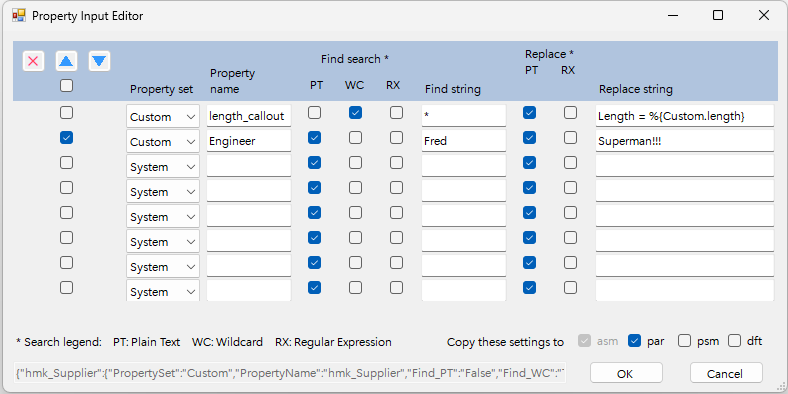
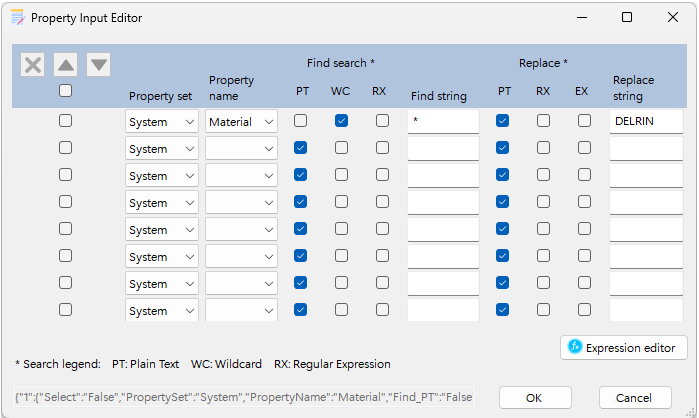
Documentation

diff --git a/README-2024.2.md b/README-2024.2.md
@@ -410,11 +410,12 @@ Searches for text in a specified property and replaces it if found. The property
 
 A `Property set`, either `System` or `Custom`, is required. For more information, see the **Property Filter** section in this README file. 
 
-There are three search modes, `PT`, `WC`, and `RX`. 
+There are three search modes, `PT`, `WC`, `RX`, and `EX`. 
 
 - `PT` stands for 'Plain Text'.  It is simple to use, but finds literal matches only. 
 - `WC` stands for 'Wild Card'.  You use `*`, `?`  `[charlist]`, and `[!charlist]` according to the VB `Like` syntax. 
 - `RX` stands for 'Regex'.  It is a more comprehensive (and notoriously cryptic) method of matching text. Check the [<ins>**.NET Regex Guide**</ins>](https://learn.microsoft.com/en-us/dotnet/standard/base-types/regular-expression-language-quick-reference) for more information.
+- `EX` stands for 'Expression'.  It is discussed below. 
 
 The search *is not* case sensitive, the replacement *is*. For example, say the search is `aluminum`, the replacement is `ALUMINUM`, and the property value is `Aluminum 6061-T6`. Then the new value would be `ALUMINUM 6061-T6`. 
 
@@ -432,7 +433,23 @@ Note the textbox adjacent to the `Edit` button is a `Dictionary` representation 
 
 EXPERIMENTAL: Direct edit using Windows Structured Storage for fast execution. If you want to try that out, select the option `Edit properties outside Solid Edge`. 
 
-Due to some upstream limitations, certain properties in Structured Storage are read-only for now. That means you can use them in formulas in the `Find string` and `Replace string`, but cannot change the properties themselves. The affected properties are `System.Document Number`, `System.Revision`, `System.Project Name`. 
+Due to some upstream limitations, certain properties in Structured Storage are read-only for now. That means you can use them in formulas in the `Find` and `Replace` strings, but cannot change the properties themselves. The affected properties are `System.Document Number`, `System.Revision`, `System.Project Name`. 
+
+There are other items that Solid Edge presents as properties, but are not kept in Structured Storage. As such, they are not accesible using this technique. There are quite a few of these, for example density, fill style, etc. The only two in this category that are currently supported by Housekeeper (but not Structured Storage) are `System.Material` and `System.Sheet Metal Gage`. 
+
+**Expressions**
+
+![Expression Editor](My%20Project/media/expression_editor.png)
+
+With this tool you create an `expression` to use in a `Find` and/or `Replace` string. It functions similar to a formula in Excel. You can do string manipulations, like changing capitalization or rearranging text. You can create logical expressions, do arithmetic, and, well, almost anything.  The avaialable functions are listed below. 
+
+Like Excel, the expression must return a value.  Nested expressions are the norm for complex manipulations. Unlike Excel, multi-line text is allowed, which can make the code more readable. 
+
+You can check your expression using the `Test` button. If there are variables not defined in the formula itself, for example `%{Custom.Engineer}`, it prompts you for a value. You can `Save` or `Save As` your expression with the buttons provided. Retreive them with the `Save Expressions` button.  There are a couple of example saved expressions you can review there. The `Help` button opens a web site where you can learn more. 
+
+Available functions
+
+`concat()`, `contains()`, `convert()`, `count()`, `countBy()`, `dateAdd()`, `dateTime()`, `dateTimeAsEpoch()`, `dateTimeAsEpochMs()`, `dictionary()`,`distinct()`, `endsWith()`, `extend()`, `first()`, `firstOrDefault()`, `format()`, `getProperties()`, `getProperty()`, `humanize()`, `if()`, `in()`, `indexOf()`, `isGuid()`, `isInfinite()`, `isNaN()`, `isNull()`, `isNullOrEmpty()`, `isNullOrWhiteSpace()`, `isSet()`, `itemAtIndex()`, `jObject()`, `join()`, `jPath()`, `last()`, `lastIndexOf()`, `lastOrDefault()`, `length()`, `list()`, `listOf()`, `max()`, `maxValue()`, `min()`, `minValue()`, `nullCoalesce()`, `orderBy()`, `padLeft()`, `parse()`, `parseInt()`, `regexGroup()`, `regexIsMatch()`, `replace()`, `retrieve`, `reverse()`, `sanitize()`, `select()`, `selectDistinct()`, `setProperties()`, `skip()`, `Sort()`, `Split()`, `startsWith()`, `store()`, `substring()`, `sum()`, `switch()`, `take()`, `throw()`, `timeSpan()`, `toDateTime()`, `toLower()`, `toString()`, `toUpper()`, `try()`, `tryParse()`, `typeOf()`, `where()`
 
 ### Edit variables
 Adds, changes, and/or exposes variables.  The information is entered on the Input Editor. Access the form using the `Variables edit/add/expose` `Edit` button. It is located below the task list on each **Task Tab**.

diff --git a/README.md b/README.md
@@ -410,11 +410,12 @@ Searches for text in a specified property and replaces it if found. The property
 
 A `Property set`, either `System` or `Custom`, is required. For more information, see the **Property Filter** section in this README file. 
 
-There are three search modes, `PT`, `WC`, and `RX`. 
+There are three search modes, `PT`, `WC`, `RX`, and `EX`. 
 
 - `PT` stands for 'Plain Text'.  It is simple to use, but finds literal matches only. 
 - `WC` stands for 'Wild Card'.  You use `*`, `?`  `[charlist]`, and `[!charlist]` according to the VB `Like` syntax. 
 - `RX` stands for 'Regex'.  It is a more comprehensive (and notoriously cryptic) method of matching text. Check the [<ins>**.NET Regex Guide**</ins>](https://learn.microsoft.com/en-us/dotnet/standard/base-types/regular-expression-language-quick-reference) for more information.
+- `EX` stands for 'Expression'.  It is discussed below. 
 
 The search *is not* case sensitive, the replacement *is*. For example, say the search is `aluminum`, the replacement is `ALUMINUM`, and the property value is `Aluminum 6061-T6`. Then the new value would be `ALUMINUM 6061-T6`. 
 
@@ -432,7 +433,23 @@ Note the textbox adjacent to the `Edit` button is a `Dictionary` representation 
 
 EXPERIMENTAL: Direct edit using Windows Structured Storage for fast execution. If you want to try that out, select the option `Edit properties outside Solid Edge`. 
 
-Due to some upstream limitations, certain properties in Structured Storage are read-only for now. That means you can use them in formulas in the `Find string` and `Replace string`, but cannot change the properties themselves. The affected properties are `System.Document Number`, `System.Revision`, `System.Project Name`. 
+Due to some upstream limitations, certain properties in Structured Storage are read-only for now. That means you can use them in formulas in the `Find` and `Replace` strings, but cannot change the properties themselves. The affected properties are `System.Document Number`, `System.Revision`, `System.Project Name`. 
+
+There are other items that Solid Edge presents as properties, but are not kept in Structured Storage. As such, they are not accesible using this technique. There are quite a few of these, for example density, fill style, etc. The only two in this category that are currently supported by Housekeeper (but not Structured Storage) are `System.Material` and `System.Sheet Metal Gage`. 
+
+**Expressions**
+
+![Expression Editor](My%20Project/media/expression_editor.png)
+
+With this tool you create an `expression` to use in a `Find` and/or `Replace` string. It functions similar to a formula in Excel. You can do string manipulations, like changing capitalization or rearranging text. You can create logical expressions, do arithmetic, and, well, almost anything.  The avaialable functions are listed below. 
+
+Like Excel, the expression must return a value.  Nested expressions are the norm for complex manipulations. Unlike Excel, multi-line text is allowed, which can make the code more readable. 
+
+You can check your expression using the `Test` button. If there are variables not defined in the formula itself, for example `%{Custom.Engineer}`, it prompts you for a value. You can `Save` or `Save As` your expression with the buttons provided. Retreive them with the `Save Expressions` button.  There are a couple of example saved expressions you can review there. The `Help` button opens a web site where you can learn more. 
+
+Available functions
+
+`concat()`, `contains()`, `convert()`, `count()`, `countBy()`, `dateAdd()`, `dateTime()`, `dateTimeAsEpoch()`, `dateTimeAsEpochMs()`, `dictionary()`,`distinct()`, `endsWith()`, `extend()`, `first()`, `firstOrDefault()`, `format()`, `getProperties()`, `getProperty()`, `humanize()`, `if()`, `in()`, `indexOf()`, `isGuid()`, `isInfinite()`, `isNaN()`, `isNull()`, `isNullOrEmpty()`, `isNullOrWhiteSpace()`, `isSet()`, `itemAtIndex()`, `jObject()`, `join()`, `jPath()`, `last()`, `lastIndexOf()`, `lastOrDefault()`, `length()`, `list()`, `listOf()`, `max()`, `maxValue()`, `min()`, `minValue()`, `nullCoalesce()`, `orderBy()`, `padLeft()`, `parse()`, `parseInt()`, `regexGroup()`, `regexIsMatch()`, `replace()`, `retrieve`, `reverse()`, `sanitize()`, `select()`, `selectDistinct()`, `setProperties()`, `skip()`, `Sort()`, `Split()`, `startsWith()`, `store()`, `substring()`, `sum()`, `switch()`, `take()`, `throw()`, `timeSpan()`, `toDateTime()`, `toLower()`, `toString()`, `toUpper()`, `try()`, `tryParse()`, `typeOf()`, `where()`
 
 ### Edit variables
 Adds, changes, and/or exposes variables.  The information is entered on the Input Editor. Access the form using the `Variables edit/add/expose` `Edit` button. It is located below the task list on each **Task Tab**.
